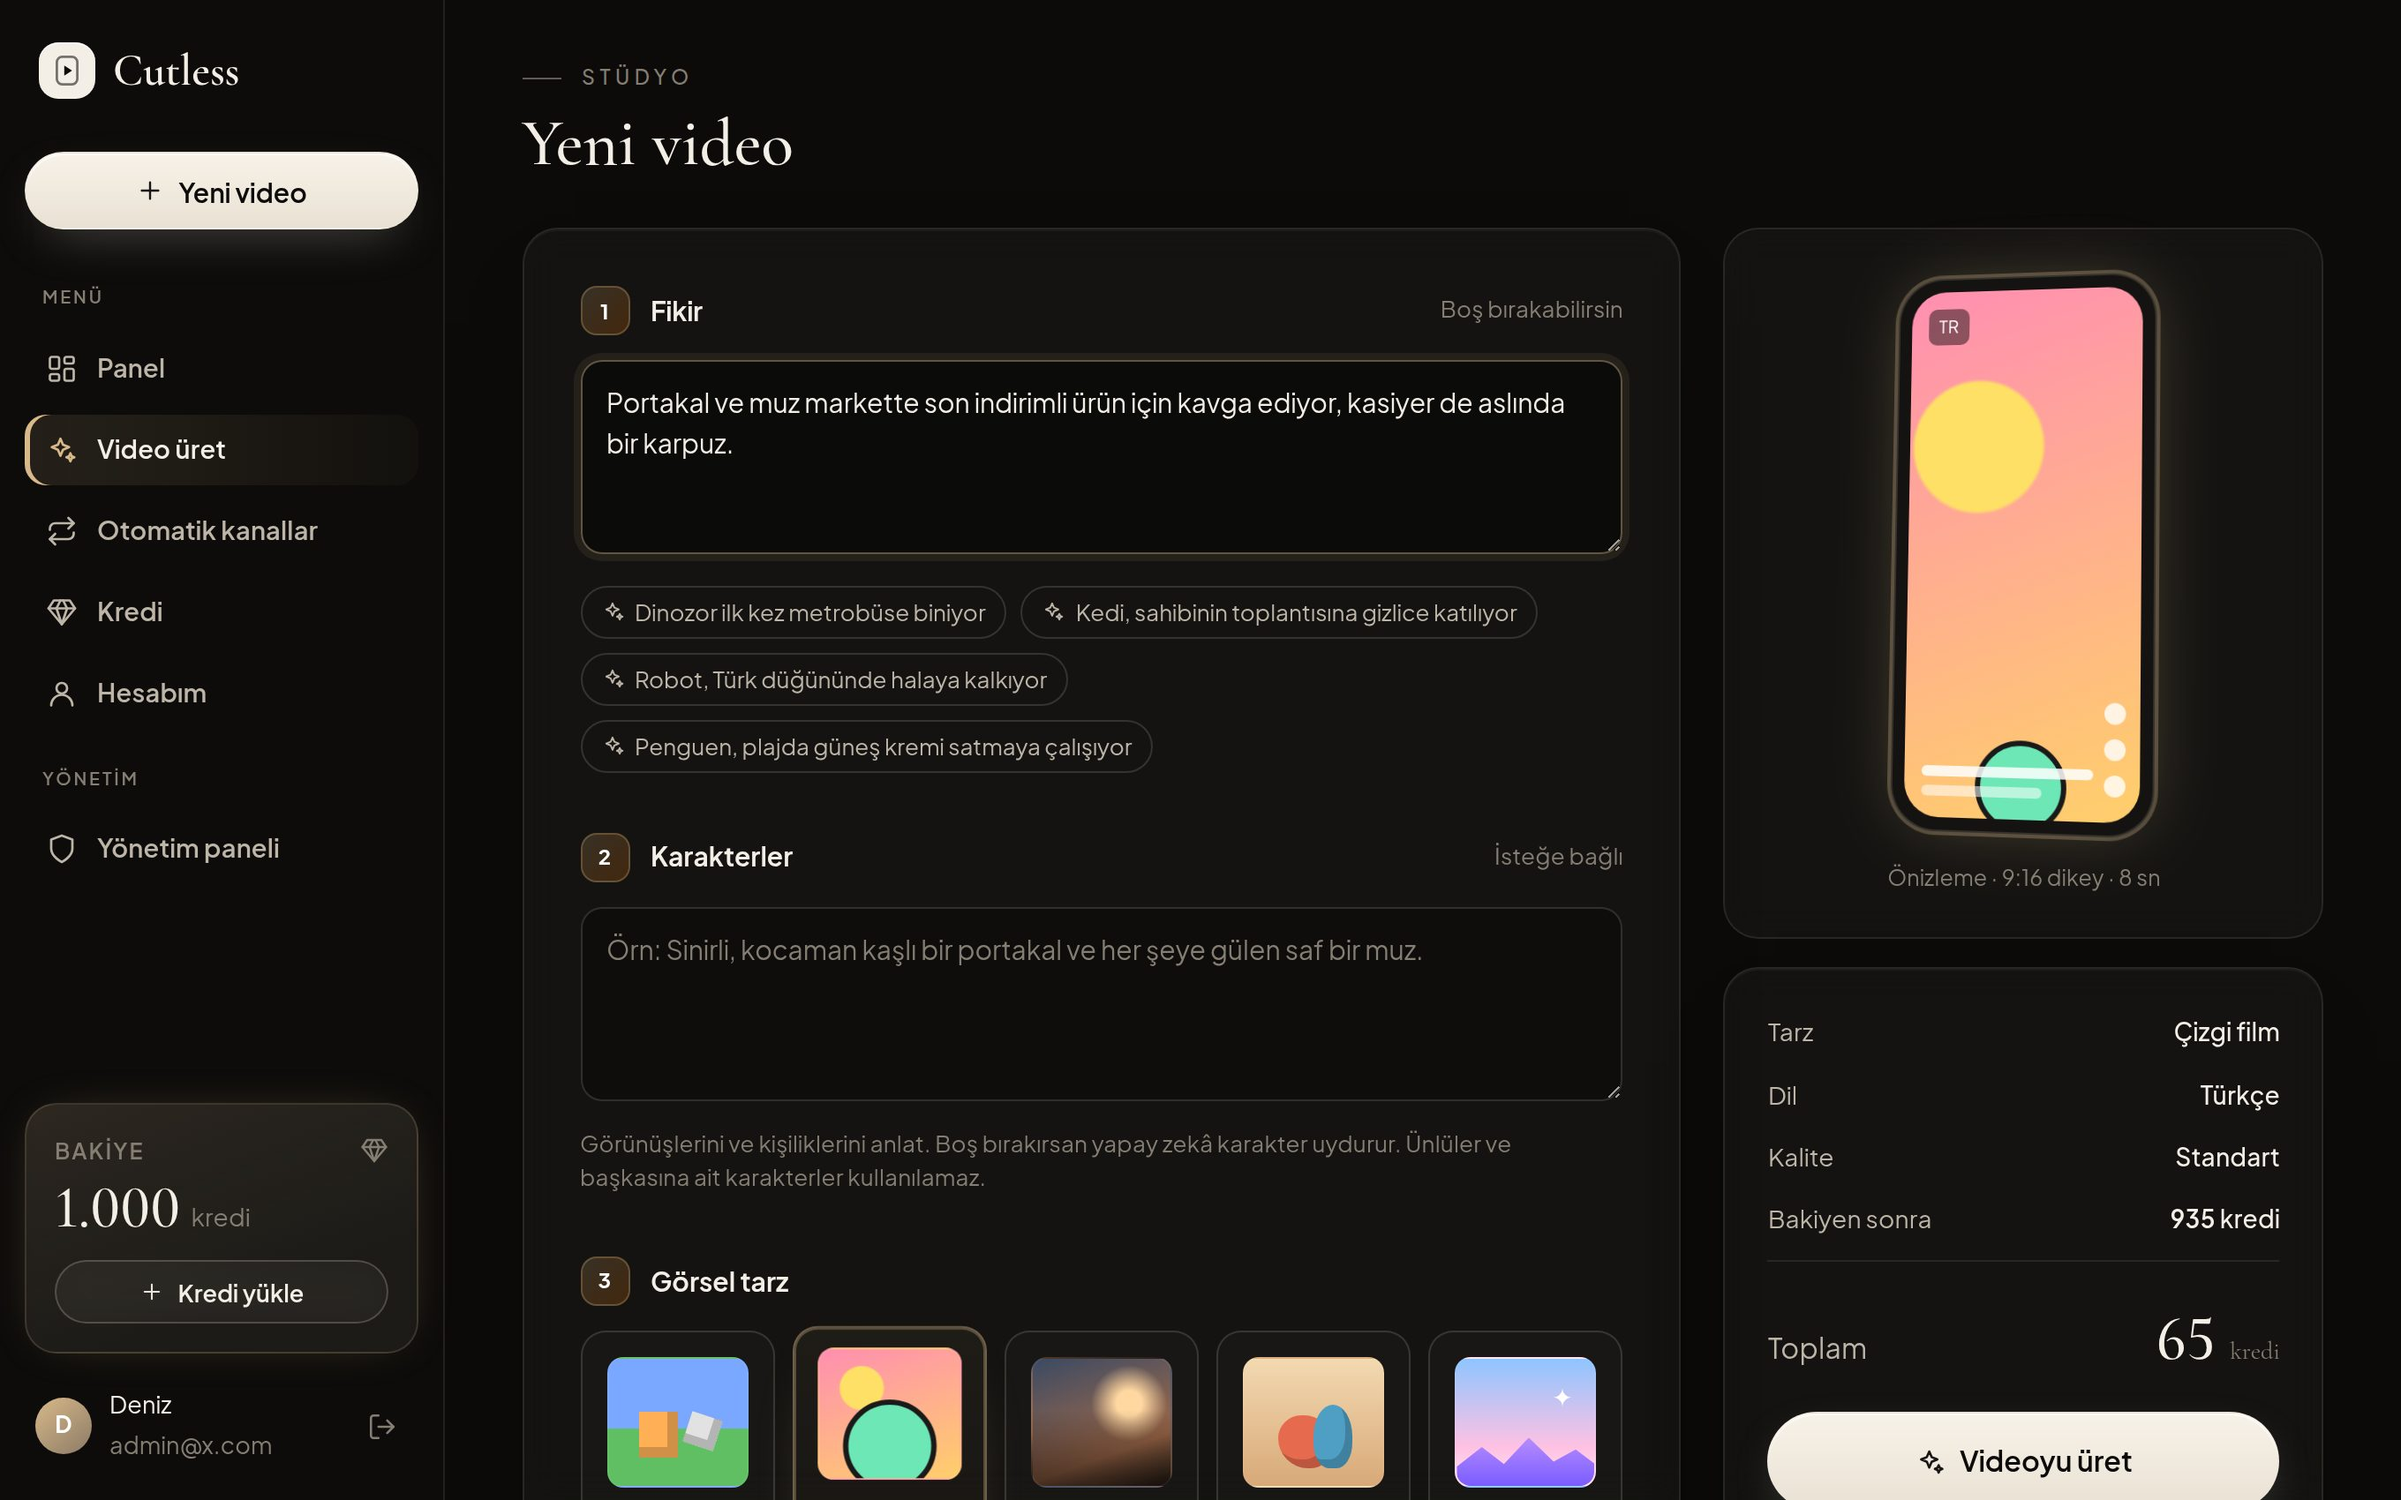
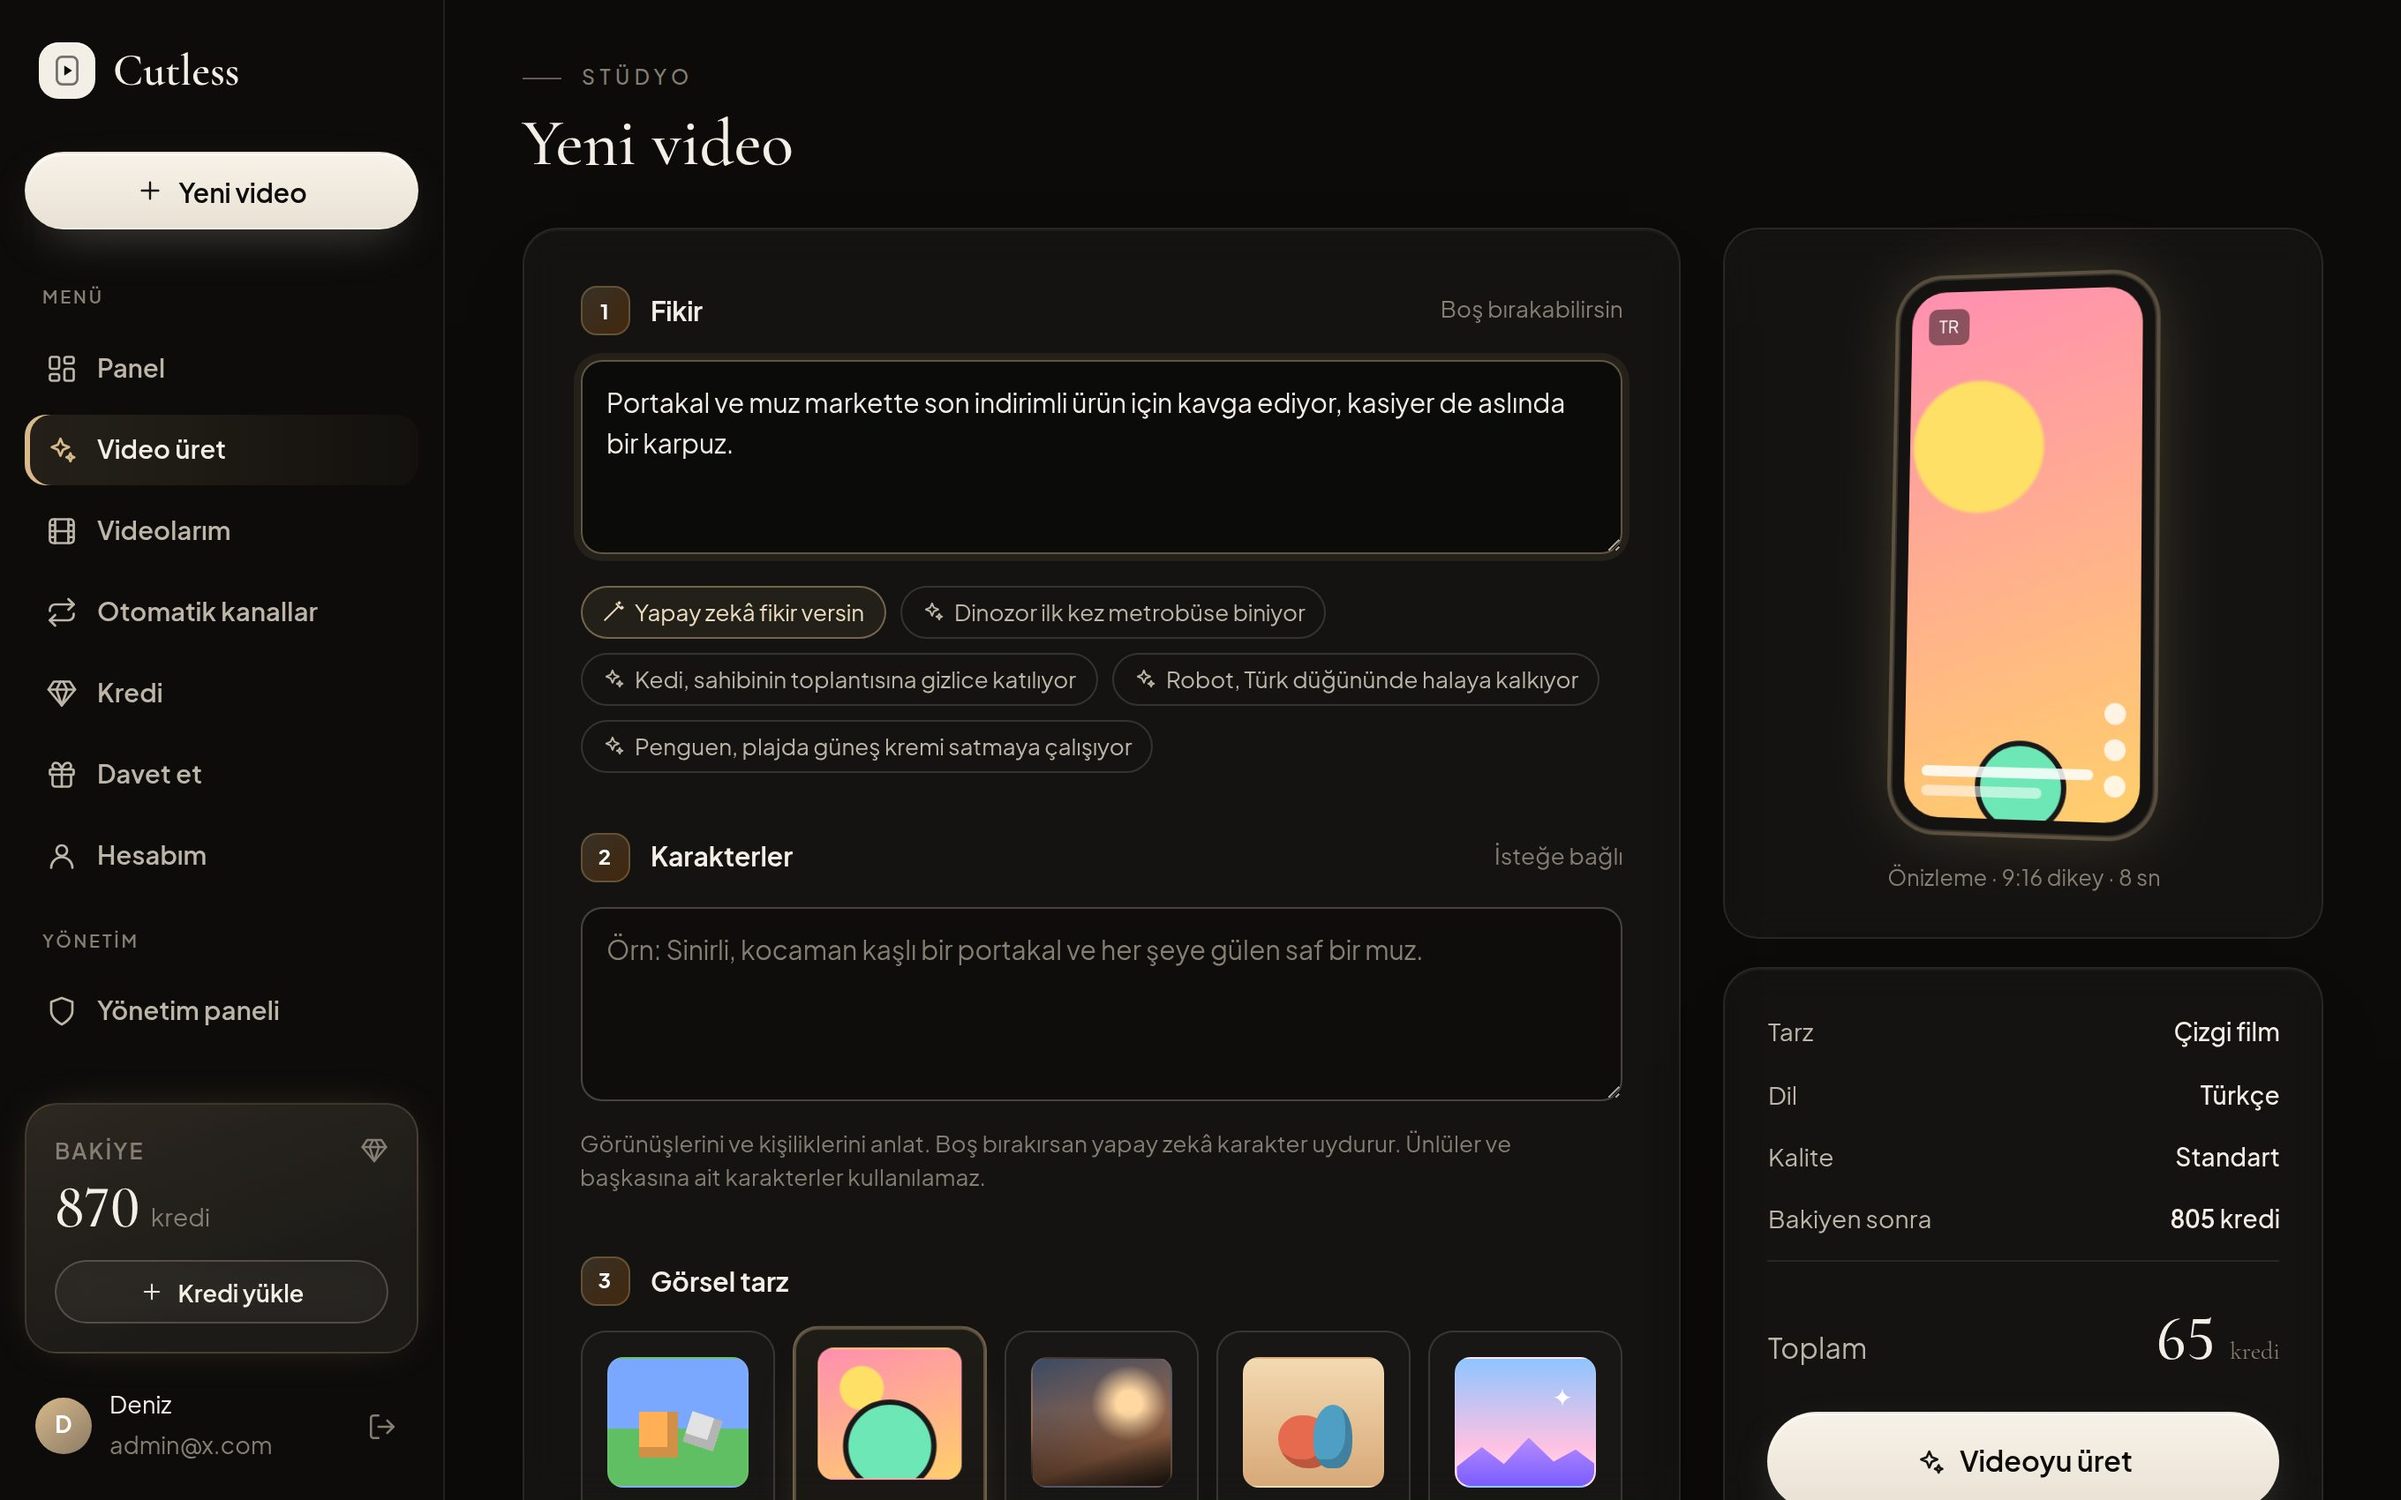
Site: ana sayfadaki stüdyo vitrini ekran yüksekliğine sığar, görüntü yenilendi
Claude-Session: https://claude.ai/code/session_01EkGK4eBhzFBgDTSSVtWr1p

diff --git a/otoshort_site/saas/static/site.css b/otoshort_site/saas/static/site.css
@@ -664,7 +664,7 @@ html.lenis,html.lenis body{height:auto}html.lenis{scroll-behavior:auto}.lenis.le
 
 /* ============ Ürün vitrini ============ */
 .showcase-sec{padding-bottom:40px}
-.showcase{--p:0;position:relative;perspective:1600px;max-width:1400px;margin:0 auto}
+.showcase{--p:0;position:relative;perspective:1600px;max-width:min(1200px,calc((100svh - 170px) * 1.6));margin:0 auto}
 .sc-glow{position:absolute;inset:8% 6% -4%;border-radius:40px;background:conic-gradient(from 200deg,#d8b98a,#b8875a,#9fc59f,#8c7b66,#4a3d32,#d8b98a);filter:blur(70px);opacity:calc(.22 + var(--p) * .3);z-index:-1}
 .sc-frame{position:relative;border-radius:18px;overflow:hidden;background:#100e0c;border:1px solid var(--border-2);
   box-shadow:0 0 0 1px rgba(255,255,255,.04) inset,0 50px 120px -40px rgba(0,0,0,.95),0 0 80px -30px rgba(216,185,138,0.36);
